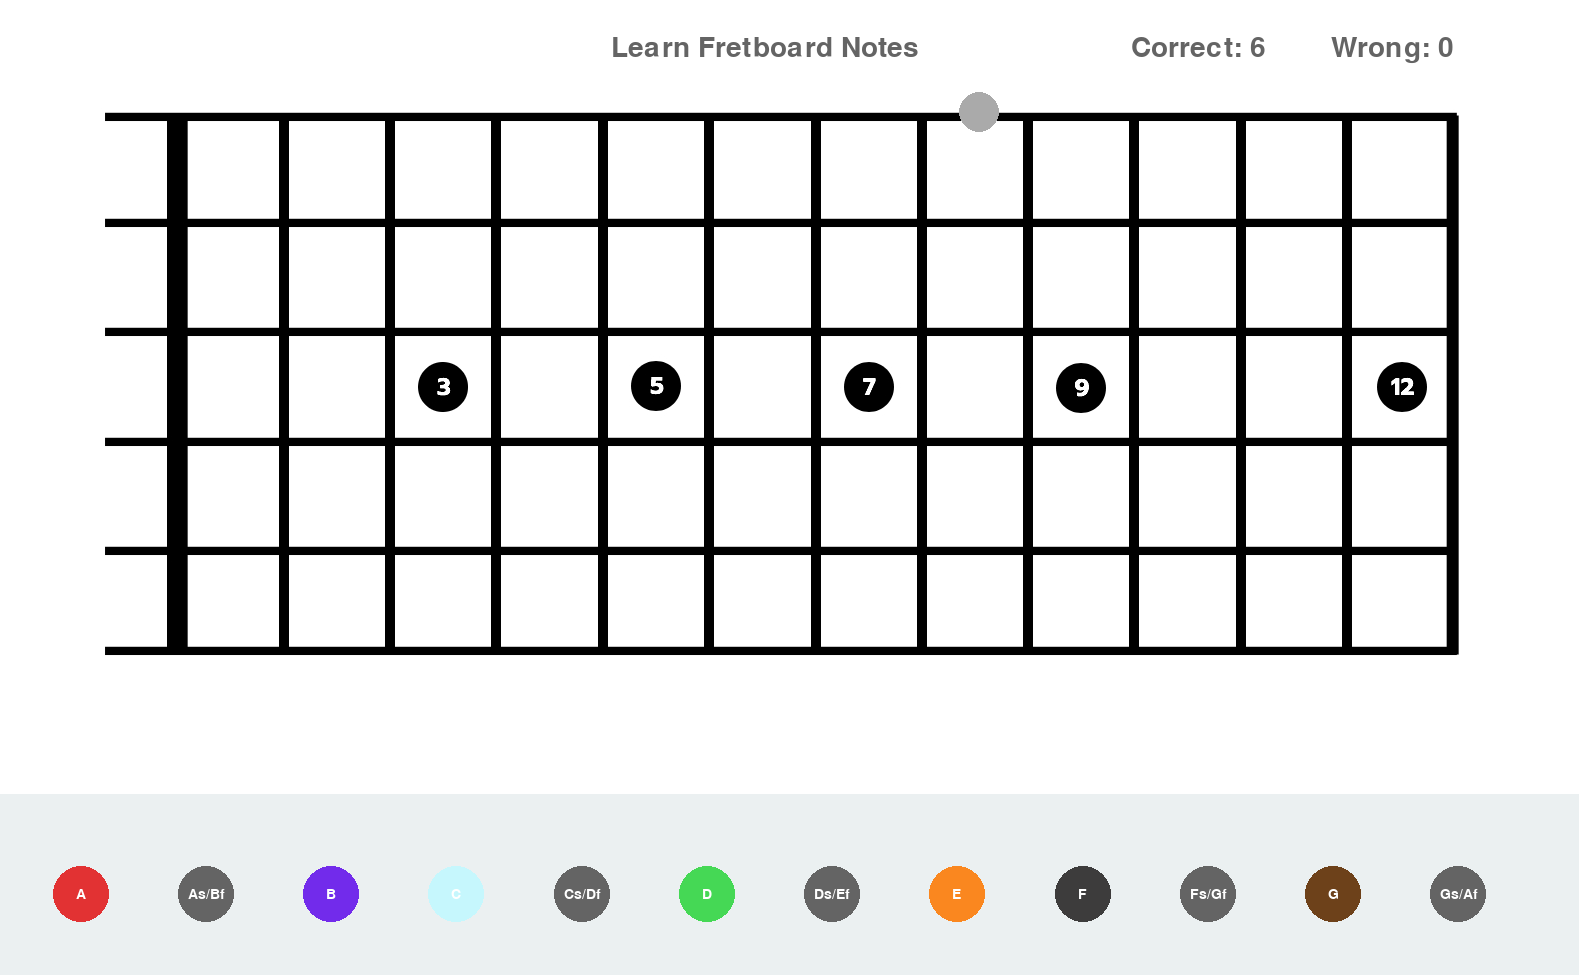
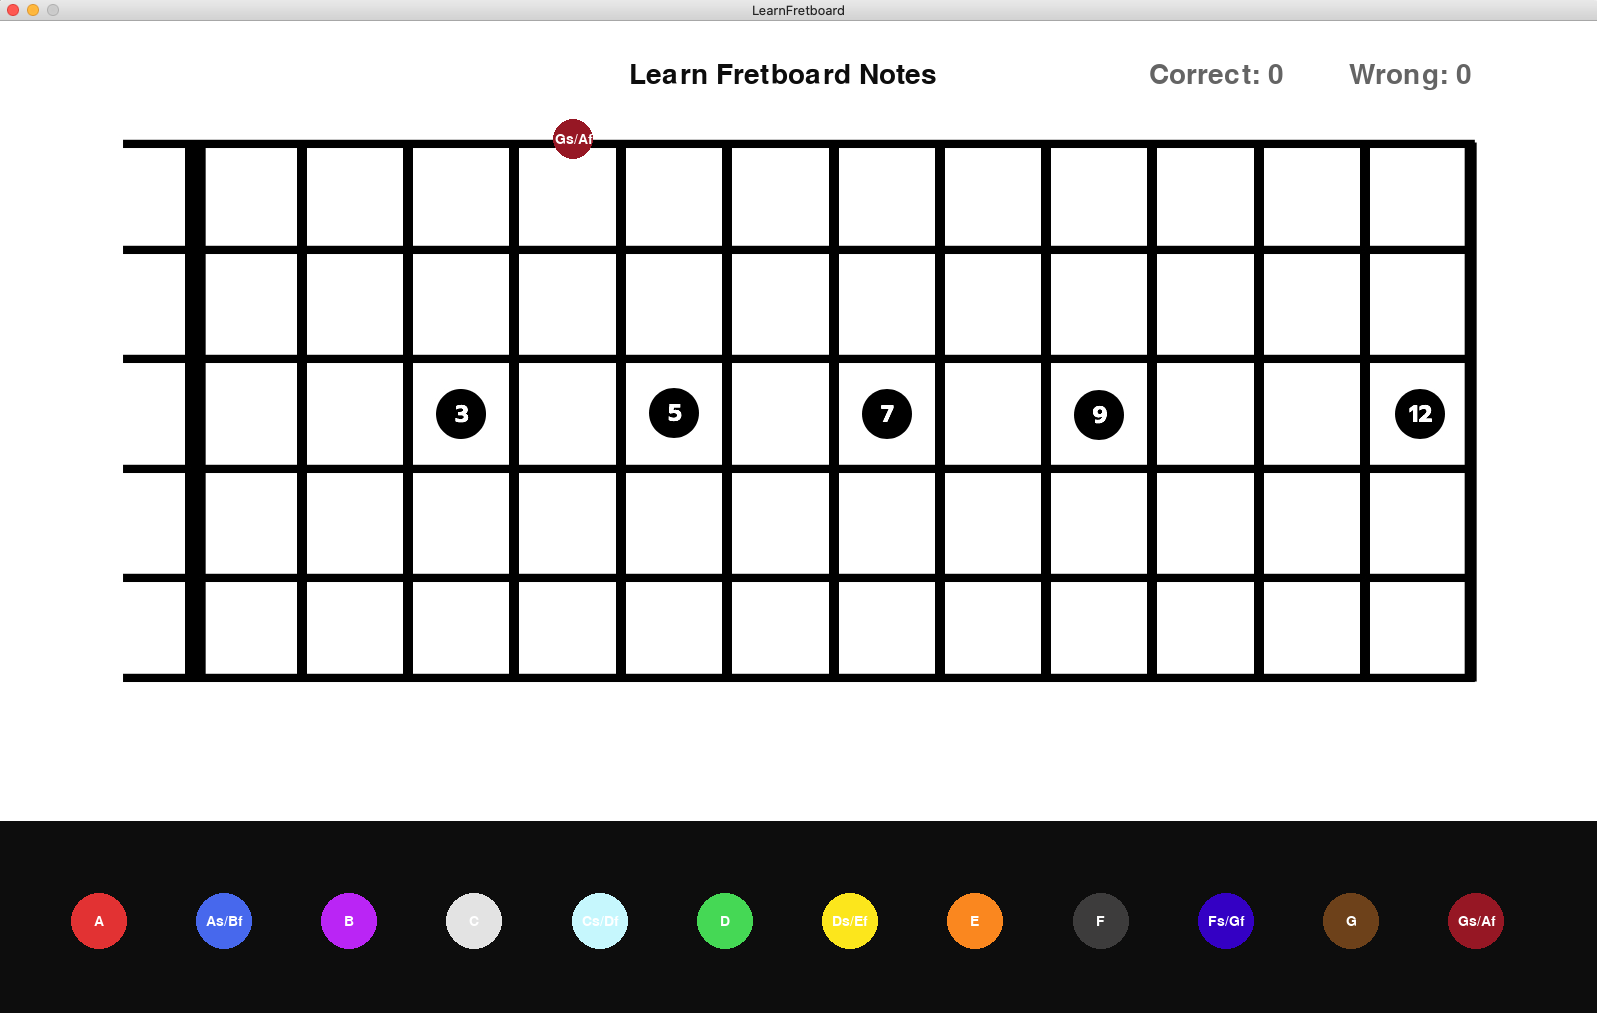
updated visuals

diff --git a/main.py b/main.py
@@ -12,22 +12,22 @@ WINDOW_HEIGHT = 1000
 WHITE = (255,255,255)
 DARK_GREY = (100,100,100)
 LIGHT_GREY = (170,170,170)
-CLOUD_GREY = (235, 240, 241)
+VERY_DARK_GREY = (13, 13, 13)
 
 # colours for fretboard buttons
 COLORS = {
     "A": (226, 50, 51),
-    "As/Bf": DARK_GREY,
-    "B": (114, 43, 235),
-    "C": (198, 247, 253),
-    "Cs/Df": DARK_GREY, 
+    "As/Bf": (71, 104, 237),
+    "B": (186, 37, 245),
+    "C": (227, 227, 227),
+    "Cs/Df": (198, 247, 253), 
     "D": (69, 216, 85),
-    "Ds/Ef": DARK_GREY,
+    "Ds/Ef": (252, 230, 28),
     "E": (250, 135, 31),
     "F": (61, 60, 60),
-    "Fs/Gf": DARK_GREY, 
+    "Fs/Gf": (52, 0, 196),
     "G": (109, 65, 26),
-    "Gs/Af": DARK_GREY,
+    "Gs/Af": (150, 23, 36),
 }
 
 NOTE_NAMES = ["A", "As/Bf", "B", "C", "Cs/Df", "D", "Ds/Ef", "E", "F", "Fs/Gf", "G", "Gs/Af"]
@@ -161,7 +161,7 @@ if __name__ == "__main__":
 
     # rendering a text written in
     # this font
-    title = TITLE_FONT.render('Learn Fretboard Notes', True, DARK_GREY)
+    title = TITLE_FONT.render('Learn Fretboard Notes', True, VERY_DARK_GREY)
 
     # ~~~~~~~~~~~~~~~~~~~~~~~~~~~~~~~~~~~~~~~~~~~~~~~~~~~~~~~~~~~~~~~~~
 
@@ -170,7 +170,7 @@ if __name__ == "__main__":
     while True:
 
         # fill screen with background colour
-        screen.fill(CLOUD_GREY)
+        screen.fill(VERY_DARK_GREY)
 
         # draw freboard skeleton image
         screen.blit(fretboard_image, (0, 0))
